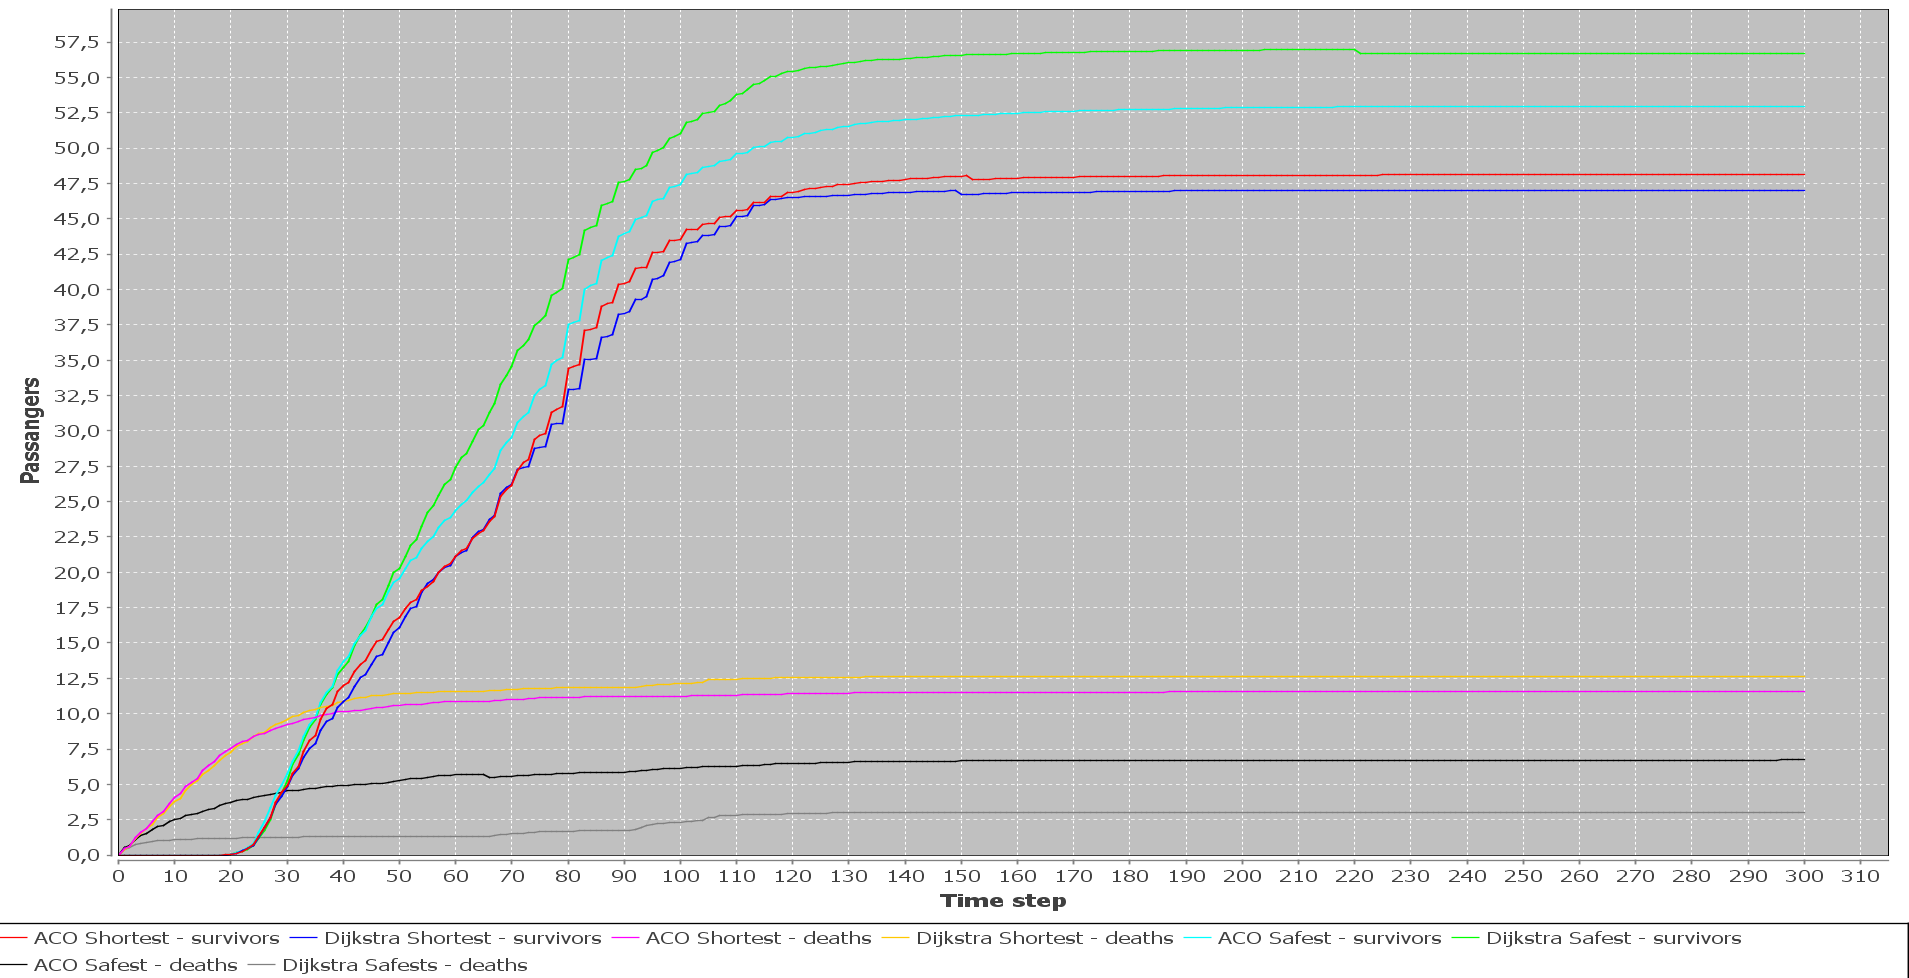
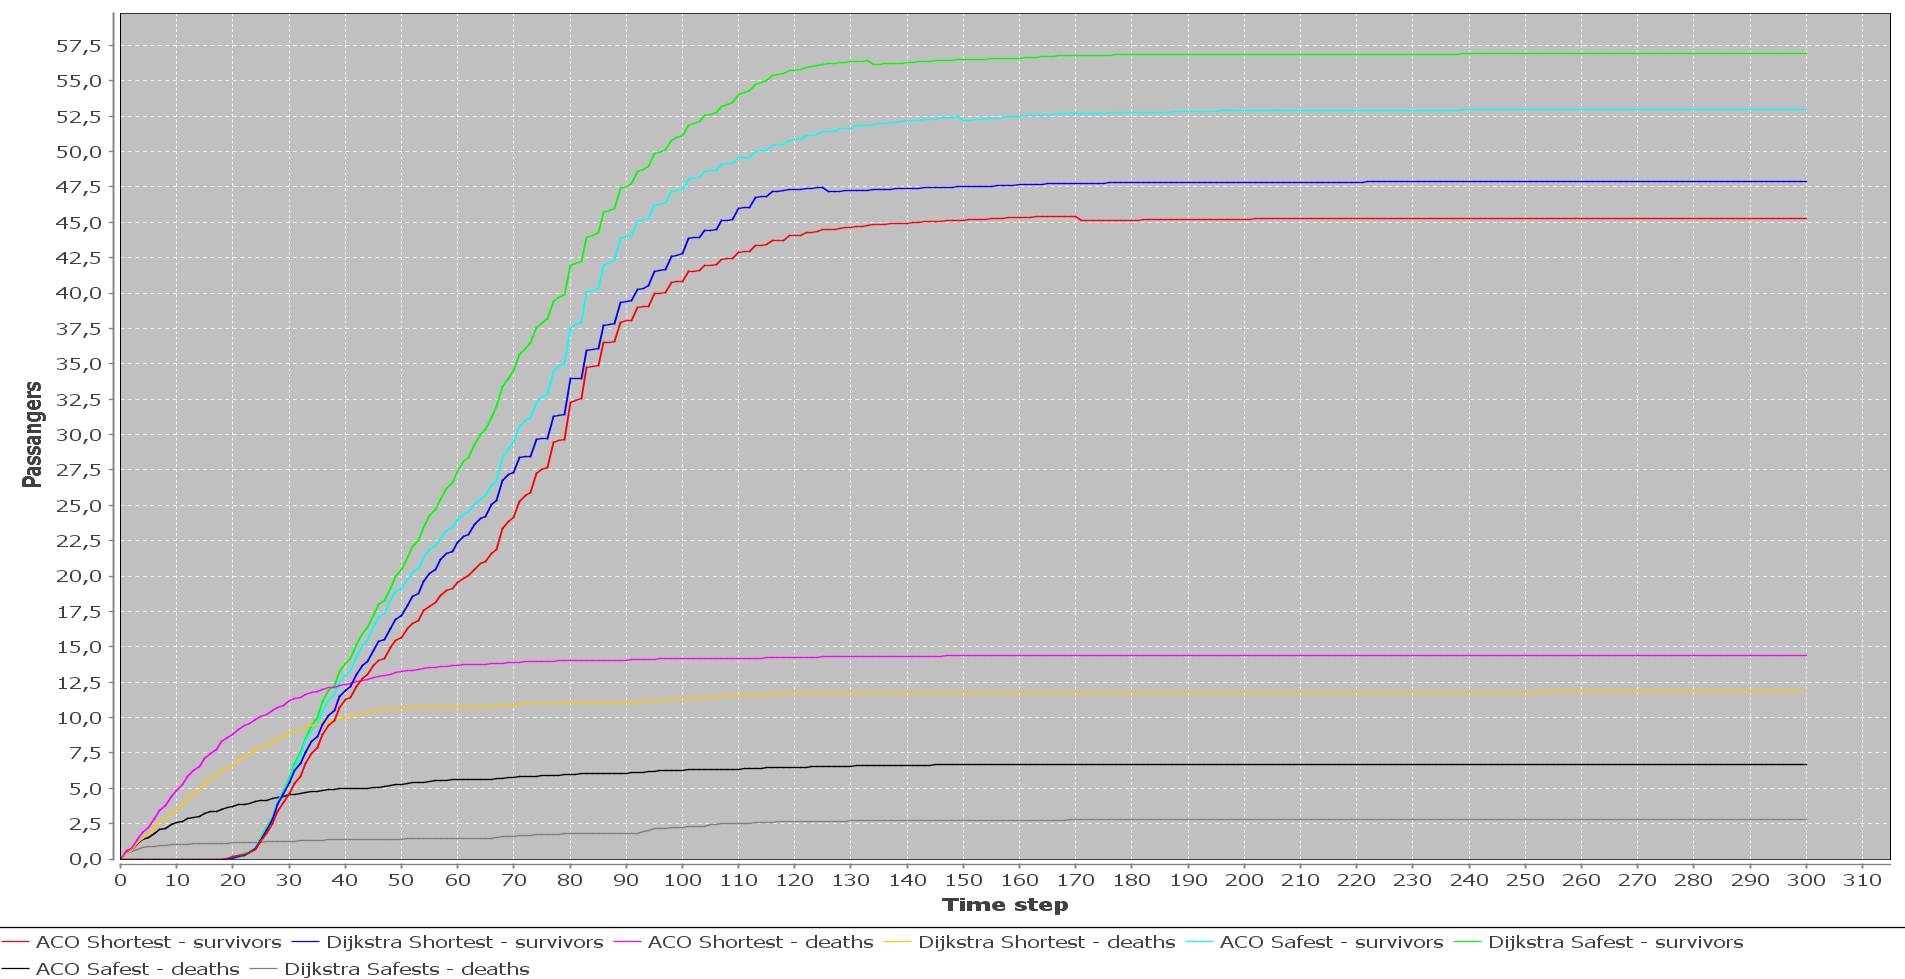
Changed images names

diff --git a/Report/report_template/testing.tex b/Report/report_template/testing.tex
@@ -6,22 +6,22 @@
 \begin{figure} [h]
 \centering
 \hspace*{-1.0in}
-\includegraphics[scale=0.35]{images/Graph-using-1000-rounds-140-passangers.png}
-\caption{Same as \ref{fig:celeb}, only using 1000 iterations.}
+\includegraphics[scale=0.35]{images/Graph-using-200-rounds-and 1000-rounds.png}
+\caption{Comparing 200 iterations to 1000 iterations.}
 \label{fig:celeb1000}
 \end{figure}
 
-In the simulations there are several parameters that can be changed and multiple variables that can have an extreme impact on the simulation. For instance the fires can cover all exits and end up killing most if not all passengers. Thus each simulation runs 200 times and we obtain the average results. We found that there was no significant difference between 200 iterations and 1000 iterations as seen if one compare figure \ref{fig:celeb} with figure \ref{fig:celeb1000}.
+In the simulations there are several parameters that can be changed and multiple variables that can have an extreme impact on the simulation. For instance the fires can cover all exits and end up killing most if not all passengers. Thus each simulation runs 200 times and we obtain the average results. We found that there was no significant difference between 200 iterations and 1000 iterations, that can see in figure \ref{fig:celeb1000}.
 
 \begin{figure} [h]
 \centering
 \hspace*{-1.0in}
-\includegraphics[scale=0.35]{images/Graph-using-200-rounds-140-passangers-and-one-fire.png}
+\includegraphics[scale=0.35]{images/Graph-using-200-rounds-140-passangers.png}
 \caption{Dijkstra and ACO running at each time step.}
 \label{fig:celeb}
 \end{figure}
 % Crew members not accounted for
-The simulations also ran with a set of standard configurations. When the effects of changing one parameter was tested the remaining ones were kept at a standard level. The number of passengers was set to the ship maximum number of passengers found on Cruisedeckplans LLC website\cite{cruseships}. The fire on board the ship was set to increase in size and intensity at every second time step, one time step being 2 real life seconds. At the start of the simulations between one and three fires were started.
+The simulations also ran with a set of standard configurations. When the effects of changing one parameter was tested the remaining ones were kept at a standard level. The number of passengers was set to the ship maximum number of passengers used on the ship Celebrity Xpedition was found on Cruisedeckplans LLC website\cite{cruseships}. The fire on board the ship was set to increase in size and intensity at every second time step, one time step being 2 real life seconds. At the start of the simulations between one and three fires were started.
 
 At each time step ACO released 200 ants per passenger. Each ant held 100 pheromones that it used to mark the paths to the exits. The passengers would use these new paths. Similarly Dijkstra's algorithm recalculated a new path for each passenger at each time step. In some of our simulation a few passenger would not reach the exits within 300 time steps. However we have cut the graph at 300 time steps, as this would show more details in the graph and the average number of survivors past 300 did not change. 
 
@@ -30,7 +30,7 @@ At each time step ACO released 200 ants per passenger. Each ant held 100 pheromo
 \begin{figure} [h]
 \centering
 \hspace*{-1.0in}
-\includegraphics[scale=0.35]{images/Graph-using-200-rounds-140-passangers-and-one-hazzard-and-ACO-having-pheremons-in-edges.png}
+\includegraphics[scale=0.35]{images/Graph-using-200-rounds-140-passangers-and-ACO-having-pheremons-in-edges.png}
 \caption{Taking shortest path with pheromones in edges.}
 \label{fig:celebPherInEdge}
 \end{figure}
@@ -40,22 +40,22 @@ At the beginning of the testing phase we tested whether ants depositing pheromon
 
 \subsection{Dijkstra's algorithm}
 
-In figure \ref{fig:celebDF} we see the results of running Dijkstra's algorithm once per passenger at the start of the simulation and no more as the simulation progressed. When searching for the safest path we expected that ACO would outperform Dijkstra's algorithm, and it did. When Dijkstra's algorithm could not account for the fire spreading its performance suffered. When looking for the shortest path, ACO started out well but Dijkstra's algorithm pulled ahead after about 100 time steps. When several people occupy the same area their speed is slowed. ACO will attempt to route passengers around these areas and since Dijkstra's algorithm was only ran at the start it made no such attempts. As it turns out, when searching for the shortest distance ACO is still not performing as well as Dijkstra's algorithm even when it is allowed to account for high occupand density.
+In figure \ref{fig:celebDF} we see the results of running Dijkstra's algorithm once per passenger at the start of the simulation and no more as the simulation progressed. When searching for the safest path we expected that ACO would outperform Dijkstra's algorithm, and it did. When Dijkstra's algorithm could not account for the fire spreading its performance suffered. When looking for the shortest path, ACO started out well but Dijkstra's algorithm pulled ahead after about 100 time steps. When several people occupy the same area their speed is slowed. ACO will attempt to route passengers around these areas and since Dijkstra's algorithm was only ran at the start it made no such attempts. As it turns out, when searching for the shortest distance ACO is still not performing as well as Dijkstra's algorithm even when it is allowed to account for high occupant density.
 
 \begin{figure} [h]
 \centering
 \hspace*{-1.0in}
-\includegraphics[scale=0.35]{images/Graph-using-1000-rounds-140-passangers-and-one-fire-dijkstra-one-time.png}
+\includegraphics[scale=0.35]{images/Graph-using-200-rounds-140-passangers-and-dijkstra-one-time.png}
 \caption{Running Dijkstra's algorithm only at start.}
 \label{fig:celebDF}
 \end{figure}
 
-In figure \ref{fig:celeb} Dijkstra's algorithm was run with the standard configurations. It is clearly seen that Dijkstra's algorithm selecting the safest path has the best results overall. ACO selecting its perceived safest path would be the second best algorithm followed by Dijkstra's algorithm chosing the quickest path. ACO configured for quickest path has the worst performance, as it has problem finding the quickest path and getting the passengers off the ship before the fire spread and intensity becomes overwhelming.
+In figure \ref{fig:celeb} Dijkstra's algorithm was run with the standard configurations. It is clearly seen that Dijkstra's algorithm selecting the safest path has the best results overall. ACO selecting its perceived safest path would be the second best algorithm followed by Dijkstra's algorithm choosing the quickest path. ACO configured for quickest path has the worst performance, as it has problem finding the quickest path and getting the passengers off the ship before the fire spread and intensity becomes overwhelming.
 
 % Perhaps Dijsktra's spreads less, not more?
 If you look at quickest paths only, it is clearly shown that ACO's passengers are dying more rapidly then Dijkstra's passengers. This means that both algorithms are choosing different paths. As the shortest path is measured in shortest time needed to reach the exit rather than the shortest distance to exit, it would seem that Dijkstra's algorithm is more effective at spreading the passengers than ACO. Additionally Dijkstra's algorithm is able to guide passengers to an exit faster than ACO.
 
-What is clear is that selecting the safest path is the best option regardless of algorithm. This can be atributed to the speed of the passengers and speed of the fire. If the fire spread was faster and passengers moved slower then the long and safe path around the fires could lead to the fire spreading to cover the previously safe path. Which in turn could cause more lives to be lost compared to if they took the shorter and slightly more dangerous path at the start.
+What is clear is that selecting the safest path is the best option regardless of algorithm. This can be attributed to the speed of the passengers and speed of the fire. If the fire spread was faster and passengers moved slower then the long and safe path around the fires could lead to the fire spreading to cover the previously safe path. Which in turn could cause more lives to be lost compared to if they took the shorter and slightly more dangerous path at the start.
 
 %you can see how well the different algorithms did. In both cases we only used one hazard(Fire) that spread on board the ship. As shown in the graph, Dijkstra outperforms ACO in both early and late stages of this graph. In the beginning there are more passengers dying to ACO chosen path then there is in Dijkstra's chosen path, a good sign that both are finding different paths. As shortest path is measured in shortest time needed rather then shortest way to exit, it may be that Dijkstra spread the passengers more out then ACO.
 
@@ -70,7 +70,7 @@ What is clear is that selecting the safest path is the best option regardless of
 \begin{figure} [h]
 \centering
 \hspace*{-1.0in}
-\includegraphics[scale=0.35]{images/Graph-using-200-rounds-140-passangers-and-one-fire-high-panic.png}
+\includegraphics[scale=0.35]{images/Graph-using-200-rounds-140-passangers-and-high-panic.png}
 \caption{Simulation with a high panic chance.}
 \label{fig:celebHPanic}
 \end{figure}
@@ -79,7 +79,7 @@ What is clear is that selecting the safest path is the best option regardless of
 % Very interesting, get this in the conclusion
 % Why would ACO not cause the same level of panic?
 
-When the chance of panic changed to a higher chance both algorithms struggled more to guide the passengers to safety. Dijkstra had the largest drop in performance as it sometimes it would send passengers in one direction, then panic and go back, therefore taking a long time before that passenger got to safety or died. It is not clearly shown in this graph, however when it simulation was running, it resulted in a data file almost on a size of one 1 GB, where ACO's data file would not pass 60 MB. However it was also Dijkstra that preformed best overall, shown in \ref{fig:celebHPanic}.
+When the chance of panic changed to a higher chance both algorithms struggled more to guide the passengers to safety. Dijkstra had the largest drop in performance as it sometimes it would send passengers in one direction, then panic and go back, therefore taking a long time before that passenger got to safety or died. It is not clearly shown in this graph, however when it simulation was running, it resulted in a data file almost on a size of one 1 GB, where ACO's data file would not pass 60 MB. However it was also Dijkstra that preformed best overall, shown in figure \ref{fig:celebHPanic}.
 
 \begin{figure} [h]
 \centering
@@ -93,18 +93,18 @@ When the chance of panic changed to a higher chance both algorithms struggled mo
 \centering
 \hspace*{-1.0in}
 \includegraphics[scale=0.35]{images/Graph-using-200-rounds-200-passangers.png}
-\caption{Simulation run with over maximum capacity of passengers.}
+\caption{Simulation run with over maximum passenger capacity.}
 \label{fig:celeb200}
 \end{figure}
 
 \subsection{Amount of passengers}
 % Do we have a section on too many passengers that we can compare to?
 
-In \ref{fig:celeb50} all the different algorithms are close together and preform well when there are less passengers on board the ship. The order of witch algorithm that is best still remains the same, however Dijkstra going for quickest paths is just as good as ACO going for safest for a while, before ACO goes past it. When looking at the deaths of the passengers ACO going for safest is always much better then Dijkstra going for Quickest.
+In figure \ref{fig:celeb50} all the different algorithms are close together and preform well when there are less passengers on board the ship. The order of witch algorithm that is best still remains the same, however Dijkstra going for quickest paths is just as good as ACO going for safest for a while, before ACO goes past it. When looking at the deaths of the passengers ACO going for safest is always much better then Dijkstra going for Quickest.
 
 Again ACO's going for the quickest path is that it is a bit to slow and therefore the hazards have time to spread more out and create more dangerously areas.
 
-Now in \ref{fig:celeb200} the difference is performance in the different algorithms grows more apart from each other then in \ref{fig:celeb50}. This shows that the more passengers the ships have, the more difference in the different algorithms are to be expected.
+Now in figure \ref{fig:celeb200} the difference is performance in the different algorithms grows more apart from each other then in figure \ref{fig:celeb50}. This shows that the more passengers the ships have, the more difference in the different algorithms are to be expected.
 
 \begin{figure} [h]
 \centering
@@ -125,15 +125,28 @@ Now in \ref{fig:celeb200} the difference is performance in the different algorit
 \subsection{Fire spread}
 % Write how much slower. Reasonable that quickest path is better when there is less fire to accidentaly run into
 
-When comparing \ref{fig:celebSfire} to \ref{fig:celeb}, the algorithms overall did much better then all the other simulations. This was expected as the hazards moved more slowly then in all the other simulations. It is also worth noting that when finding the quickest path ACO had the biggest increase in performance, however it is still the one that is the worst off.
+When comparing figure \ref{fig:celebSfire} to figure \ref{fig:celeb}, the algorithms overall did much better then all the other simulations. This was expected as the hazards moved more slowly then in all the other simulations. It is also worth noting that when finding the quickest path ACO had the biggest increase in performance, however it is still the one that is the worst off.
 
-However, when comparing them to \ref{fig:celebFfire}, all the algorithms was worse of. An interesting thing to be noticed in the graph is that Dijkstra going for the shortest path is just as good as ACO going for the safest. This shows that when the fire is spreading fast on board the ship, it is not a bad idea to guide the passengers as fast as possible to an exit, so most of the escape routes are still viable. ACO going for the shortest path tok the greatest hit and plumes down in effectiveness, almost half of the passengers died using this algorithm to guide them.
+However, when comparing them to figure \ref{fig:celebFfire}, all the algorithms was worse of. An interesting thing to be noticed in the graph is that Dijkstra going for the shortest path is just as good as ACO going for the safest. This shows that when the fire is spreading fast on board the ship, it is not a bad idea to guide the passengers as fast as possible to an exit, so most of the escape routes are still viable. ACO going for the shortest path took the greatest hit and plumes down in effectiveness, almost half of the passengers died using this algorithm to guide them.
 
 
+
+\begin{figure} [h]
+\centering
+\hspace*{-1.0in}
+\includegraphics[scale=0.35]{images/Graph-ship-two-60-passangers-200-rounds.png}
+\caption{The effect of fast moving fire.}
+\label{fig:silverExplor}
+\end{figure}
+
+\subsection{Second ship: Silver Explorer}
+The second ship we did simulations on was the Silver Explorer, since not all the floors was created for this ship, the maximum number of passengers was not used. We used 60 passengers in this simulation, witch was right below half of the maximum number shown on Cruisedeckplans LLC website\cite{cruseships}.
+
+The results of this simulation was somewhat the same as the previous simulations, with Dijkstra outperforming on both situations, finding safest and shortest path. One difference in ACO is that the passengers saved is not as linear as the previous simulations. It seams to slow down at time step 50, and rapidly increases at time step 70 again. The reason for this is most likely the case of a new ship and different layout of the ship.
 
 \subsection{Summary of results}
 
-\ref{table:tableSafest} and \ref{table:tableShortest} show how well the algorithms did under the different simulations. All the algorithms did best in the slow fire simulation, and did the worst in high panic simulation.
+Table \ref{table:tableSafest} and table \ref{table:tableShortest} show how well the algorithms did under the different simulations. All the algorithms did best in the slow fire simulation, and did the worst in high panic simulation. Out of the simulation on Celebrity Xpedition and Silver Explorer, the Silver Explorer did the best, however the Silver Explorer was not modelled fully out as Celebrity Xpedition.
 
 \begin{table}[ht]
 \caption{Survivors of safest path} 				% title of Table
@@ -153,7 +166,8 @@ Dijkstra only at start & 120,42 & 116,44 \\
 Pheromones stored in edges & 122,315 & 125,255 \\
 1000 iterations & 122,761 & 126,861 \\
 50 Passengers & 42,47 & 43,0 \\
-200 Passengers & 166,68 & 173,305 \\ [1ex]						% [1ex] adds vertical space
+200 Passengers & 166,68 & 173,305 \\ 
+Silver Explorer & 52,96 & 56,705 \\ [1ex]						% [1ex] adds vertical space
 \hline														%inserts single line
 
 \end{tabular}
@@ -179,7 +193,8 @@ Dijkstra only at start & 109,525 & 110,845 \\
 Pheromones stored in edges & 106,58 & 117,805 \\
 1000 iterations & 102,2191 & 114,704 \\
 50 Passengers & 39,575 & 41,915 \\ 
-200 Passengers & 143,19 & 152,455 \\ [1ex]						% [1ex] adds vertical space
+200 Passengers & 143,19 & 152,455 \\
+Silver Explorer & 45,26 & 47,875 \\ [1ex]						% [1ex] adds vertical space
 \hline														%inserts single line
 
 \end{tabular}
